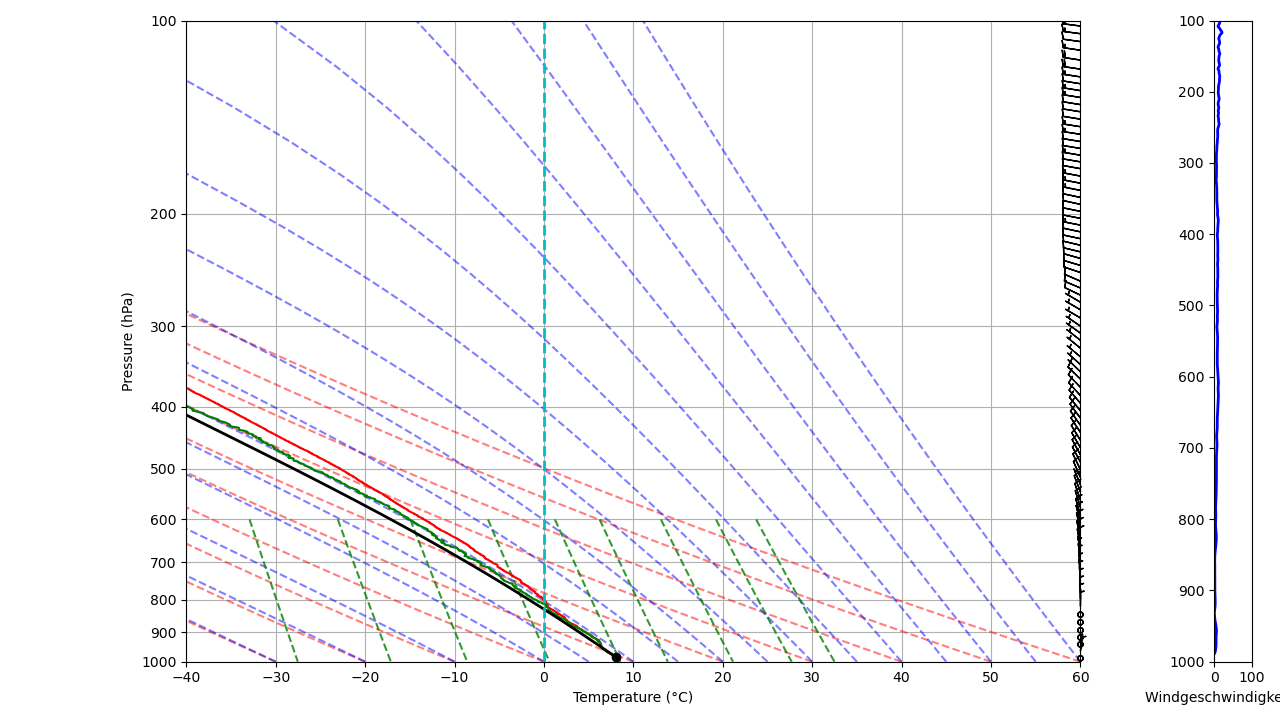
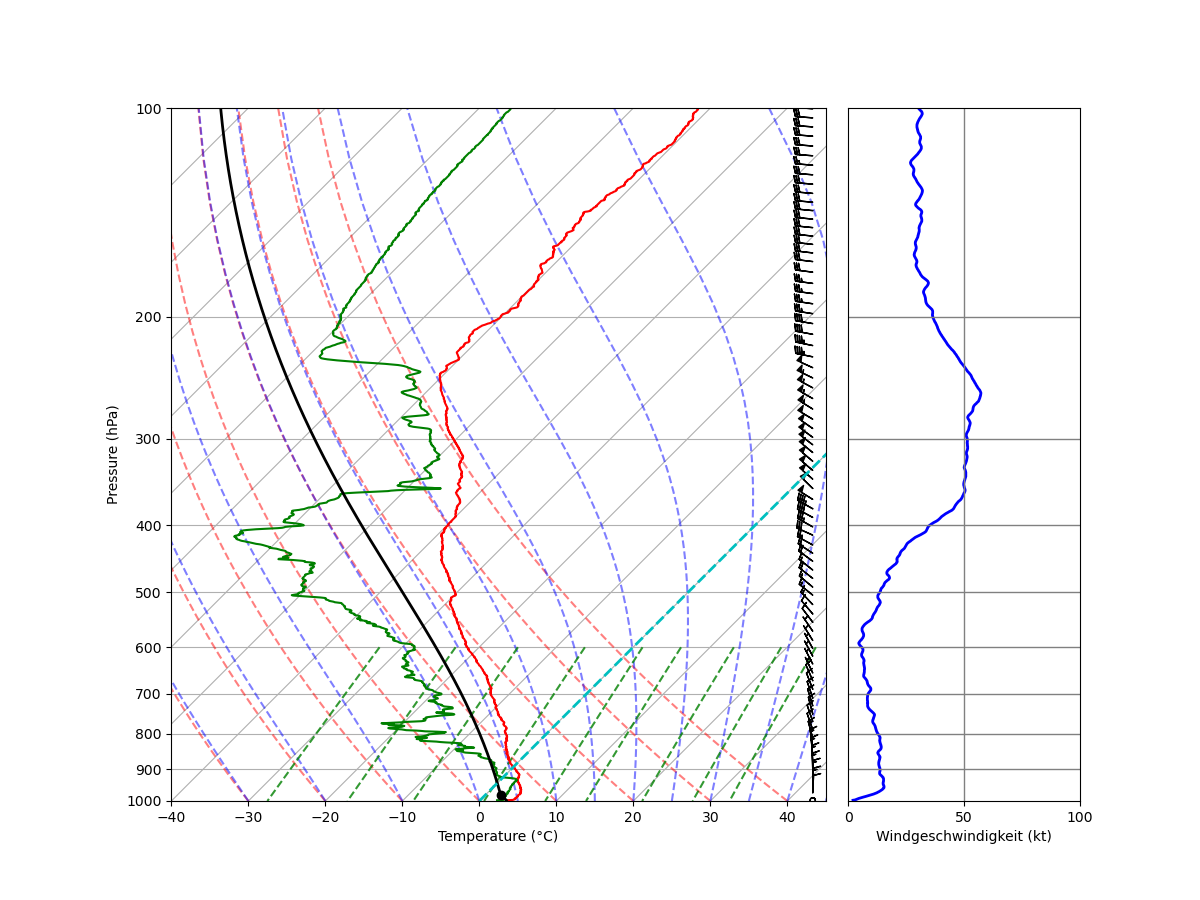
sound

diff --git a/products/soundings/vis_soundings.py b/products/soundings/vis_soundings.py
@@ -14,7 +14,8 @@ from metpy.units import units
 import numpy as np
 from PIL import Image, ImageDraw, ImageFont
 import locale
-locale.setlocale(locale.LC_TIME, 'de_DE')
+import matplotlib.ticker as ticker
+locale.setlocale(locale.LC_TIME, 'de_DE.UTF8')
 oldcwd=os.getcwd()
 
 newcwd = oldcwd +"/products" +"/soundings"
@@ -78,12 +79,40 @@ class  sounding:
         u, v = mpcalc.wind_components(wind_speed, wind_dir)
         
         print(df.head())
-        fig = plt.figure(figsize=(12.8,7.2))
+        fig = plt.figure(figsize=(12,9))#, tight_layout=True)
         if self.wind_plot==True:
-            gs = gridspec.GridSpec(1, 8, figure=fig)  # 3/4 für den Hauptplot, 1/4 für den Nebenplot
-            ax1 = fig.add_subplot(gs[1:7])
-            ax2 = fig.add_subplot(gs[7:8])
-            skew = SkewT(fig,rotation=30,subplot=ax1, aspect="auto")
+            gs = gridspec.GridSpec(1, 8)  # 3/4 für den Hauptplot, 1/4 für den Nebenplot
+            gs.update(wspace=0.01)#, hspace=0.05) # set the spacing between axes. 
+            #ax1 = fig.add_subplot(gs[:,:7])
+            ax2 = fig.add_subplot(gs[:,6:])
+            skew = SkewT(fig,rotation=45,subplot=gs[:,:6], aspect=90)
+               #   if self.wind_plot == True:
+            # Erstellen Sie einen Subplot für den Windgeschwindigkeitsverlauf
+            wind_profile_subplot = ax2#fig.add_subplot(122)  # Ändern Sie die Zahlen je nach Bedarf
+
+            # Plot des Windgeschwindigkeitsverlaufs
+            wind_profile_subplot.semilogy(df['AE_FF'].values, df['AE_P'], 'b', linewidth=2)
+            wind_profile_subplot.set_ylim(100, 1000)
+            wind_profile_subplot.set_xlim(0, 100)  # Passen Sie die x-Limits an
+                # Vertikaler Strich bei x = 50
+            wind_profile_subplot.axvline(x=50, color='grey', linewidth=1)
+            for y_value in [200, 300, 400, 500, 600, 700, 800, 900]:
+                wind_profile_subplot.axhline(y=y_value, color='grey', linewidth=1)
+
+            # Ticks nur bei 0, 50 und 100 auf der x-Achse
+            wind_profile_subplot.set_xticks([0, 50, 100])
+            # Weitere Anpassungen für den Windprofilplot
+            wind_profile_subplot.set_xlabel(f'Windgeschwindigkeit ({wind_speed.units:~P})')
+            #wind_profile_subplot.set_ylabel(f'Pressure ({p.units:~P})')
+
+            wind_profile_subplot.set(yticklabels=[])  
+            wind_profile_subplot.set(ylabel=None)
+            wind_profile_subplot.tick_params(labelleft=False, left=False)
+            wind_profile_subplot.invert_yaxis()
+            wind_profile_subplot.get_yaxis().set_ticks([])
+            wind_profile_subplot.yaxis.set_major_locator(ticker.NullLocator())
+            wind_profile_subplot.yaxis.set_minor_locator(ticker.NullLocator())
+
         else:
             
         #add_metpy_logo(fig, 115, 100)
@@ -92,11 +121,12 @@ class  sounding:
         # Plot the data using normal plotting functions, in this case using
         # log scaling in Y, as dictated by the typical meteorological plot.
         skew.ax.set_ylim(1000, 100)
-        skew.ax.set_xlim(-40, 60)
+        #
+        skew.ax.set_xlim(-40, 45)
         skew.plot(p, T, 'r')
         skew.plot(p, Td, 'g')
         if self.precision == "high":
-            skew.plot_barbs(p_w, u, v, length=5, y_clip_radius=0)#,sizes={'height':0.2})
+            skew.plot_barbs(p_w, u, v, length=5, y_clip_radius=0,xloc=0.98)#,sizes={'height':0.2})
         else:
             skew.plot_barbs(p, u, v)
 
@@ -129,20 +159,7 @@ class  sounding:
         skew.plot_moist_adiabats()
         skew.plot_mixing_lines()
 
-        if self.wind_plot == True:
-            # Erstellen Sie einen Subplot für den Windgeschwindigkeitsverlauf
-            wind_profile_subplot = ax2#fig.add_subplot(122)  # Ändern Sie die Zahlen je nach Bedarf
-
-            # Plot des Windgeschwindigkeitsverlaufs
-            wind_profile_subplot.plot(df['AE_FF'].values, df['AE_P'], 'b', linewidth=2)
-            wind_profile_subplot.set_ylim(100, 1000)
-            wind_profile_subplot.set_xlim(0, 100)  # Passen Sie die x-Limits an
-
-            # Weitere Anpassungen für den Windprofilplot
-            wind_profile_subplot.set_xlabel(f'Windgeschwindigkeit ({wind_speed.units:~P})')
-            #wind_profile_subplot.set_ylabel(f'Pressure ({p.units:~P})')
-            wind_profile_subplot.invert_yaxis()
-
+  
 
         # Add Box under the plot
         #box_props = dict(width=10, boxstyle="round,pad=0.3", edgecolor="blue", facecolor="lightyellow")
@@ -158,13 +175,21 @@ class  sounding:
     def image_box(self):
         stationid= self.stationid
         image = Image.open("sounding_"+stationid+".png")
+        
+              # Hier können Sie die gewünschte Skalierungsfaktoren anpassen
+        new_width = int(image.width * 2)
+        new_height = int(image.height * 1.2)
+
+        # Bild skalieren
+        image = image.resize((new_width, new_height))
+        
         draw = ImageDraw.Draw(image)
         font = ImageFont.truetype("../../ressources/fonts/liberation/LiberationMono-Bold.ttf", 20)  # Hier können Sie die Schriftart und Größe anpassen
 
         # Koordinaten für den Kasten und Text festlegen
         box_x = 0
         box_y = 0.95*image.height
-        box_width = image.width
+        box_width = 1920#image.width
         box_height = 40
         text = "Hier ist eine Erklärung"
         meausurement = "Messung TEMP " 
@@ -188,9 +213,10 @@ class  sounding:
         return
 
 
-bergen=sounding(stationid="00368", date="2023-10-28 00:00:00", stationname="Bergen",windplot=True)
-bergen.request()
+bergen=sounding(stationid="00368", date="2024-01-02 00:00:00", stationname="Bergen",windplot=True)
+#bergen.request()
 bergen.image()
 bergen.image_box()
+
 
 
